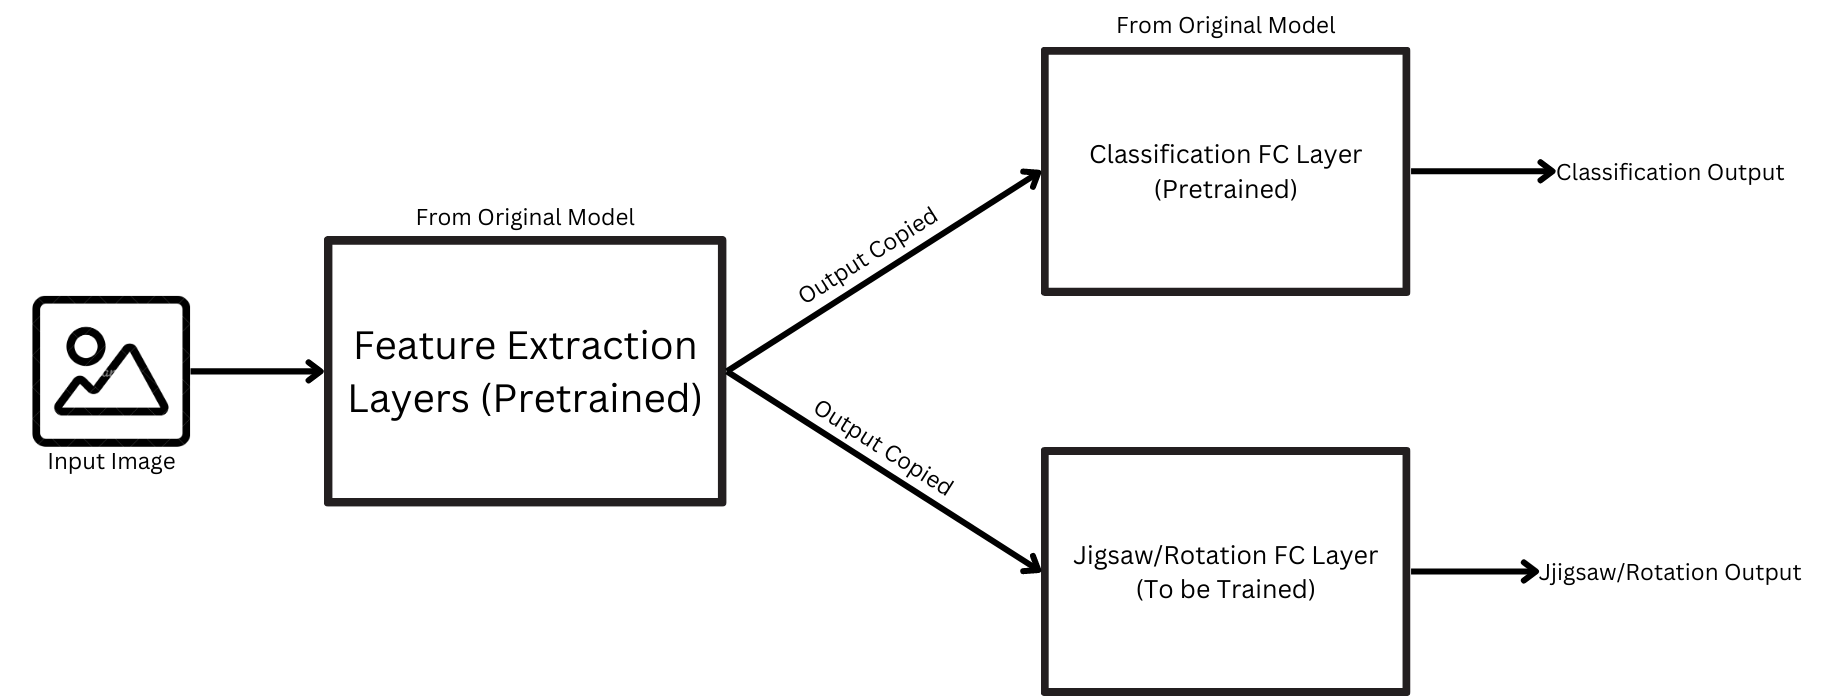
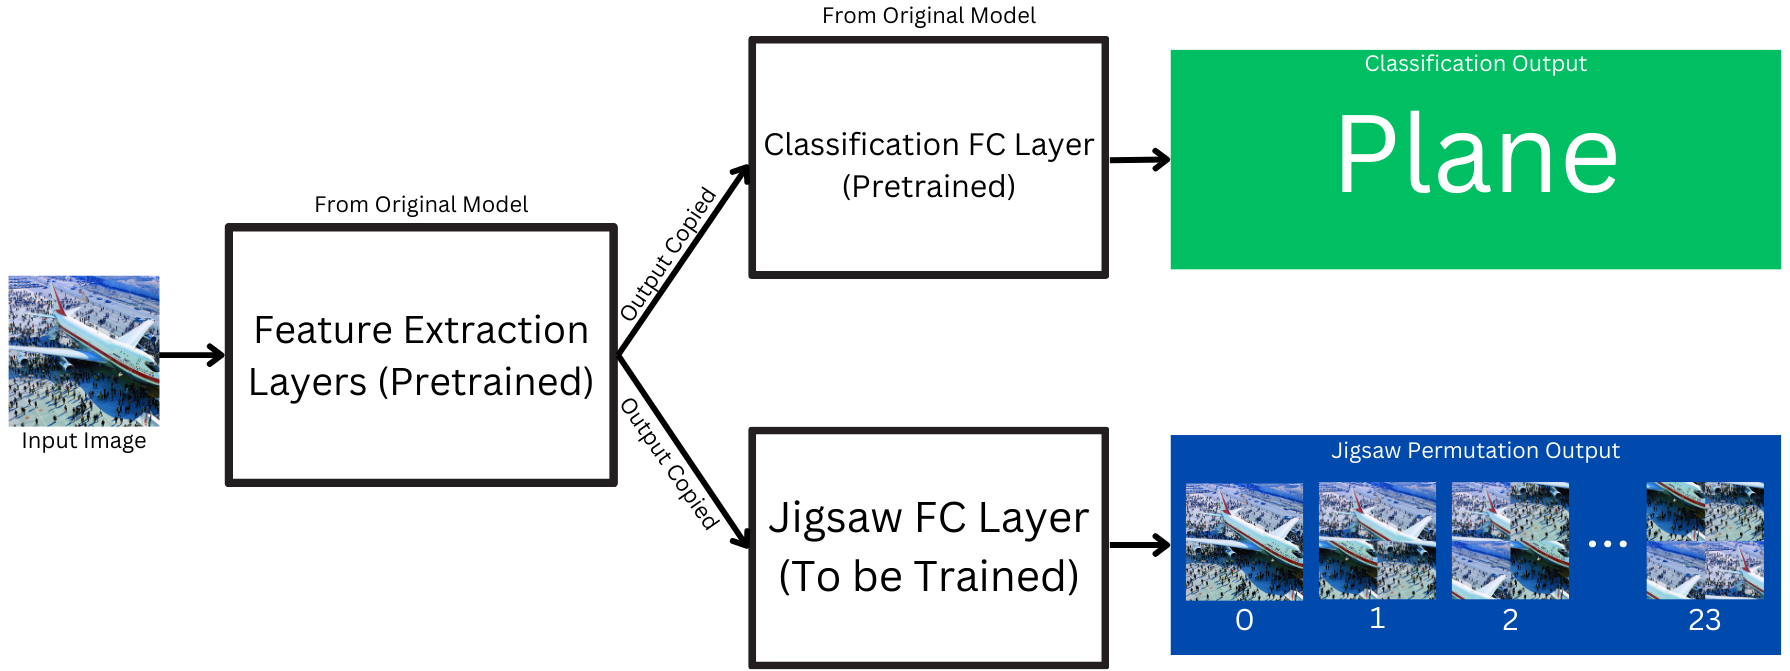
Added display_model_sizes.py and updated jigsaw formula in README.md

diff --git a/poster/main.tex b/poster/main.tex
@@ -22,7 +22,7 @@
 \makefinding{
 There is a \textbf{Strong Linear Correlation}
 \\between \textbf{Image Classification} Accuracy
-\\and \textbf{Jigsaw Solving} Accuracy,
+\\and \textbf{Jigsaw Solving/Rotation Prediction} Accuracy,
 \\for \textbf{Almost All} Classification Models
 }
 
@@ -34,66 +34,79 @@ There is a \textbf{Strong Linear Correlation}
     \raggedcolumns
     \begin{multicols}{2}
         \section{Intro}
-        \vspace{-0.4cm}
+        \vspace{-0.3cm}
         \begin{compactitem}
-            \item Adding labels to images extremely laborious.
-            \item Difficult to automate.
+            \item In real world, classifier will encounter data different from training.
+            \item Will likely perform poorly.
+            \item Need samples of this data with labels for improvement.
+            \item Adding labels to images is laborious.
+            \item \textbf{Can gauge classification accuracy from rotation or jigsaw prediction.}
         \end{compactitem}
         \begin{compactitem}
-            \item Can gauge classification accuracy from rotation/jigsaw accuracy.
             \item \textbf{Linear relationship only shown using one model for one dataset.}
-            \item \textbf{Must be tested using fixed dataset and many models.}
+            \item \textbf{Must be tested with one dataset and many models.}
         \end{compactitem}
-        \vspace{-0.5cm}
-        \section{Method}
+        \vspace{0.34cm}
+        \begin{compactitem}
+            \item CIFAR-10 dataset has 60,000 images, 1 of 10 unique objects in each.
+            \item Includes planes, frogs, boats, etc.
+        \end{compactitem}
         \vspace{-0.4cm}
+        \section{Method}
+        \vspace{-0.3cm}
         \begin{compactitem}
             \item[1.] Use CIFAR-10 dataset,
-            \item[2.] Take pretrained classification model,
+            \item[2.] Take pretrained image classifier,
             \item[3.] Fix weights of all layers,
-            \item[4.] Train new fully-connected layer for rotation/jigsaw,
+            \item[4.] Train new fully-connected layer for rotation/jigsaw prediction,
             \item[5.] Test classification and rotation/jigsaw on corrupted CIFAR-10 datasets,
             \item[6.] Repeat for 16 other models.
         \end{compactitem}
+        \vspace{0.3cm}
+        \includegraphics[scale=0.145]{images/diagram.png}
         
     % this determines where your columns will be separated
     \columnbreak
 
         \section{Results}
-        \vspace{-0.4cm}
-        \includegraphics[scale=0.4]{images/sample1.png}
+        \vspace{-0.3cm}
+        \includegraphics[scale=0.44]{images/sample1.png}
         \begin{compactitem}
-            \item Linear correlation observed on both tasks, \textit{for all but one model.}
+            \item \textbf{Linear correlation on both tasks and both domains}, \textit{for all but one model.}
             \item Even simplest models showed medium to strong fit.
             \item Linear Fit in Interior Domain doesn't always hold in Exterior Domain.
         \end{compactitem}
-        \vspace{-0.5cm}
-        \section{Future Work}
         \vspace{-0.4cm}
+        \section{Future Work}
+        \vspace{-0.3cm}
         \begin{compactitem}
-            \item Test more models
-            \item Apply method to other datasets e.g: ImageNet
-            \item Test other self-supervised methods
+            \item Test more classifiers.
+            \item Apply method to other datasets e.g: ImageNet, COCO, MNIST, etc.
+            \item Test other self-supervised methods eg: image colourisation.
         \end{compactitem}
+        \vspace{0.3cm}
+        \includegraphics[scale=0.145]{images/diagram1.png}
     
     \end{multicols}
 }
 % If you have extra figures or data to show
 \makeextracolumn{
     \begin{flushleft}
-    Linear Classification - Jigsaw (Simplest)
-    \includegraphics[scale=0.17]{images/sample3.png}\includegraphics[scale=0.17]{images/sample2.png}
+    Linear Classifier - Jigsaw (Simplest)
+    \includegraphics[scale=0.16]{images/sample3.png}\includegraphics[scale=0.16]{images/sample2.png}
     LeNet5 - Jigsaw
-    \includegraphics[scale=0.17]{images/sample8.png}\includegraphics[scale=0.17]{images/sample9.png}
+    \includegraphics[scale=0.16]{images/sample8.png}\includegraphics[scale=0.16]{images/sample9.png}
+    ShuffleNet - Rotation
+    \includegraphics[scale=0.16]{images/sample10.png}\includegraphics[scale=0.16]{images/sample11.png}
     Inception\_v3 - Rotation
-    \includegraphics[scale=0.17]{images/sample4.png}\includegraphics[scale=0.17]{images/sample5.png}
+    \includegraphics[scale=0.16]{images/sample4.png}\includegraphics[scale=0.16]{images/sample5.png}
+    DenseNet169 - Jigsaw
+    \includegraphics[scale=0.16]{images/sample12.png}\includegraphics[scale=0.16]{images/sample13.png}
     ResNet1202 - Jigsaw (Most Complex)
-    \includegraphics[scale=0.17]{images/sample6.png}\includegraphics[scale=0.17]{images/sample7.png}
-
-    \includegraphics[scale=0.11]{images/diagram.png}
+    \includegraphics[scale=0.16]{images/sample6.png}\includegraphics[scale=0.16]{images/sample7.png}
 
     \vspace{0.3cm}
-    Interior Domain = Modified versions of original dataset used for training models in any task.
+    Interior Domain = Modified versions of original dataset for model training. Also includes original dataset.
     
     Exterior Domain = Variants of original dataset eg: CIFAR-10.1.
 

diff --git a/code/baselines/jigsaw.py b/code/baselines/jigsaw.py
@@ -94,6 +94,12 @@ parser.add_argument(
     default=False,
     help='True if the graphs of classification accuracy vs jigsaw accuracy should be shown after RMSE calculation'
 )
+parser.add_argument(
+    '--reevaluate-domains',
+    action="store_true",
+    default=False,
+    help='True if the model should be reevaluated on the interior and exterior domain datasets.'
+)
 
 
 # Assumes (n_channels, rows, cols)
@@ -150,8 +156,22 @@ def jigsaw_batch_with_labels(batch, labels, int_to_perm):
     return torch.cat(images)
 
 
-def jigsaw_batch(batch, num_permutations, int_to_perm):
-    labels = torch.randint(num_permutations, (len(batch),), dtype=torch.long)
+def jigsaw_batch(batch, num_permutations, int_to_perm, random=True):
+    """
+    :param batch: The batch
+    :param num_permutations: The number of jigsaw permutations
+    :param int_to_perm: The permutation index to the actual permutation tuple.
+    :param random: True, if the permutation assigned to each image should be random, and False if there should be
+    ``num_permutations`` copies of each image associated with each possible permutation.
+    :return: The batch of jigsaw labels and the labels themselves.
+    """
+    if random:
+        labels = torch.randint(num_permutations, (len(batch),), dtype=torch.long)
+    else:
+        labels = torch.cat(
+            [torch.zeros(len(batch), dtype=torch.long) + label_idx for label_idx in range(num_permutations)]
+        )
+        batch = batch.repeat((num_permutations, 1, 1, 1))
     return jigsaw_batch_with_labels(batch, labels, int_to_perm), labels
 
 
@@ -159,7 +179,7 @@ def jigsaw_pred(dataloader, model, device, num_permutations, int_to_perm):
     # return a tuple of (classification accuracy, rotation prediction accuracy)
     outcomes = []
     for imgs, _ in iter(dataloader):
-        imgs_jig, labels_jig = jigsaw_batch(imgs, num_permutations, int_to_perm)
+        imgs_jig, labels_jig = jigsaw_batch(imgs, num_permutations, int_to_perm, random=False)
         imgs_jig, labels_jig = imgs_jig.to(device), labels_jig.to(device)
         with torch.no_grad():
             _, out_jig = model(imgs_jig)
@@ -220,10 +240,10 @@ if __name__ == "__main__":
         os.makedirs(temp_file_path)
 
     ss_predictor_func = lambda dataloader: jigsaw_pred(dataloader, model, device, num_permutations, int_to_perm)
-    if args.train_ss_layer or not os.path.exists(f"{temp_file_path}{train_set}.npy"):
+    if args.train_ss_layer or args.reevaluate_domains or not os.path.exists(f"{temp_file_path}{train_set}.npy"):
         eval_train(dataset_path, temp_file_path, train_set, TRANSFORM, args.batch_size, ss_predictor_func)
 
-    if args.train_ss_layer or not os.path.exists(f"{temp_file_path}val_sets.npy"):
+    if args.train_ss_layer or args.reevaluate_domains or not os.path.exists(f"{temp_file_path}val_sets.npy"):
         eval_validation(
             dataset_path,
             temp_file_path,

diff --git a/code/utils.py b/code/utils.py
@@ -33,7 +33,7 @@ valid_models = [
     "densenet161",  # rotation, jigsaw done
     "densenet169",  # rotation, jigsaw done
     "shufflenet",  # rotation, jigsaw done
-    "inceptionv3",  # rotation, jigsaw done
+    "inception_v3",  # rotation, jigsaw done
     "linear",  # rotation, jigsaw done
     "alexnet",  # rotation, jigsaw done
     "lenet5",  # rotation, jigsaw done
@@ -92,7 +92,7 @@ def predict_multiple(model, imgs):
     # NOTE: make sure model is in validation mode
     model.eval()
     with torch.no_grad():
-        prob, _ = model(imgs)  # TODO: edit the models for other baselines.
+        prob, _ = model(imgs)
         pred = prob.argmax(dim=1, keepdim=True)
     return pred, torch.nn.functional.softmax(prob, dim=1).cpu().numpy()
 

diff --git a/code/display_model_sizes.py b/code/display_model_sizes.py
@@ -1,0 +1,14 @@
+from training_utils import get_model
+from utils import valid_models
+import pandas as pd
+
+if __name__ == "__main__":
+    d = {"model_name": [], "params": []}
+
+    for model_name in valid_models:
+        model = get_model(model_name, "rotation", 4, "cpu")
+        d["model_name"].append(model_name)
+        d["params"].append(len(list(model.model.parameters())))
+
+    compiled = pd.DataFrame(d).sort_values("params")
+    print(compiled)

diff --git a/code/training_utils.py b/code/training_utils.py
@@ -85,7 +85,7 @@ def get_model(name, task, num_ss_classes, device, load_best_fc=True):
         model = DenseNet_SS(version, num_ss_classes)
     elif name == "shufflenet":
         model = ShuffleNet_SS(num_ss_classes)
-    elif name == "inceptionv3":
+    elif name == "inception_v3":
         model = Inceptionv3_SS(num_ss_classes)
     elif name == "linear":
         model = Linear_SS(num_ss_classes)

diff --git a/code/models/inceptionv3.py b/code/models/inceptionv3.py
@@ -3,7 +3,6 @@ import torch.nn.functional as F
 
 from models.model import Model
 
-
 class Inceptionv3_SS(Model, nn.Module):
     def __init__(self, num_ss_classes=4):
         nn.Module.__init__(self)

diff --git a/README.md b/README.md
@@ -234,14 +234,15 @@ where
 The *Jigsaw Prediction* (Jigsaw) metric is defined as
 
 ```math
-\text{Jigsaw} = \frac{1}{m}\sum_{j=1}^m\Big\{\frac{1}{4}\sum_{r \in \{0^\circ, 90^\circ, 180^\circ, 270^\circ\}}\mathbf{1}\{C^r(\tilde{x}_j; \hat{\theta}) \neq y_r\}\Big\},
+\text{Jigsaw} = \frac{1}{m}\sum_{j = 1}^m\left(\frac{1}{g!}\sum_{p \in [1,g!] \cap \mathbb{N}}\mathbf{1}_{\{x | C^p(x;\hat{\theta}) \neq y_p\}}(\tilde{x}_j)\right)
 ```
 
 where
 
 - $m$ is the number of images,
-- $y_r$ is the label for $r \in \lbrace 0^{\circ}, 90^{\circ}, 180^{\circ}, 270^{\circ} \rbrace$,
-- $C^r(\tilde{x}_j; \hat{\theta})$ predicts the rotation degree of an image $\tilde{x}_j$.
+- $g$ is the length and width of the jigsaw puzzle grid,
+- $y_r$ is the label for $r \in [1,g!] \cap \mathbb{N}$,
+- $C^p(\tilde{x}_j; \hat{\theta})$ predicts the permutation index of a jigsaw image $\tilde{x}_j$.
 
 ## Results
 
